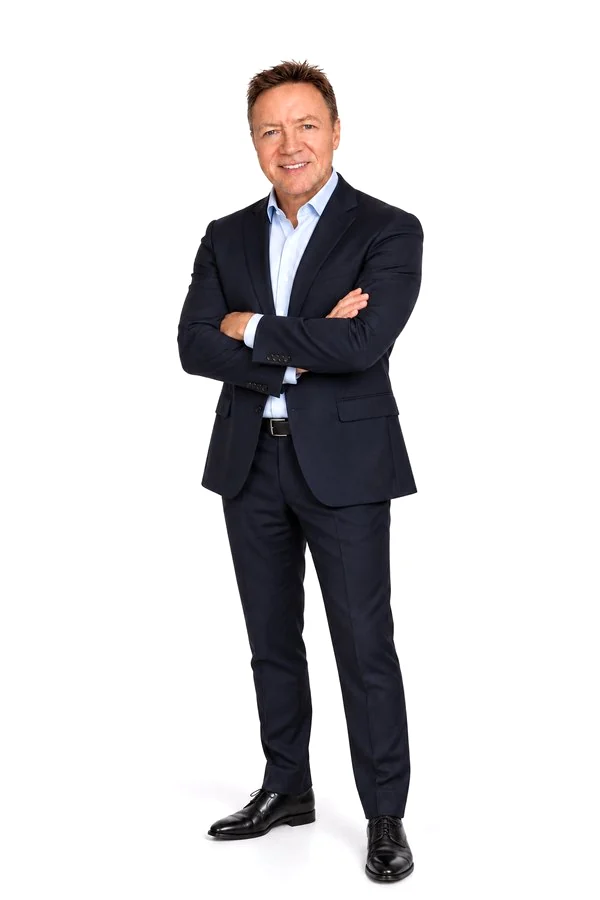
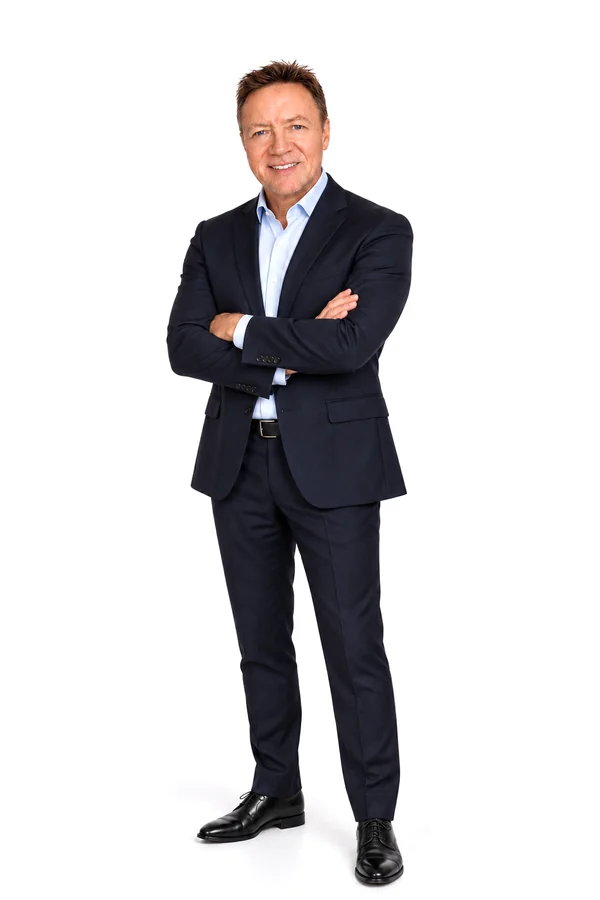
Add founder 360 turnaround and the 80-year family time-lapse
- Founder: 11 aligned views from the full-length photo; turns 360, pauses, repeats while in view, with pause button
- Generations section below Make a Gift: flash, photographer fades, then 1946 to 2026 in about ten seconds; labelled as an illustration of an imagined family
- Reduced motion shows the still images with a button to play

Claude-Session: https://claude.ai/code/session_0171Soq6E7MDrfQ61GJECVvm

Changed region(s): [[0.27, 0.0622, 0.69, 0.9956], [0.6, 0.2178, 0.72, 0.3733], [0.51, 0.28, 0.63, 0.3733]]

diff --git a/index.html b/index.html
@@ -1010,7 +1010,7 @@
 <!-- ============ FOUNDER (short) ============ -->
 <section id="founder">
   <div class="wrap founder-row has-full">
-    <div class="founder-full" id="founder-turn" data-count="0" data-src="/assets/img/founder/turn-{n}.webp">
+    <div class="founder-full" id="founder-turn" data-count="11" data-names="000,060,090,120,150,180,210,240,270,300,330" data-src="/assets/img/founder/turn-{n}.webp">
       <div class="seq-frames"><picture><source srcset="/assets/img/founder/grant-full.webp" type="image/webp"><img class="seq-still" src="/assets/img/founder/grant-full.jpg" alt="Grant de Graf, founder of The Legacy Project, standing full length in a navy suit" width="600" height="900" loading="lazy" decoding="async"></picture></div>
       <button type="button" class="seq-replay" hidden>Pause the turn</button>
     </div>
@@ -1079,6 +1079,21 @@
     <a class="btn btn-primary" style="font-size: 15px; padding: 13px 28px;" href="/donate/">Make a Gift</a>
     <p class="contact-note">Questions before giving? Email <a href="mailto:info@legacy.ngo?subject=Legacy%20Project%20Donation%20Inquiry">info@legacy.ngo</a><br>
       From a museum, school, book group, archive or foundation? <a href="/partners/">Join the Resistance Mission</a></p>
+  </div>
+</section>
+
+<!-- ============ GENERATIONS (illustration) ============ -->
+<section class="generations" id="generations" aria-labelledby="generations-h">
+  <div class="wrap">
+    <p class="eyebrow">What one life becomes</p>
+    <h2 id="generations-h">One portrait. Eighty years. Eighty people.</h2>
+    <p class="lead" style="max-width: 60ch;">Every life saved became a family. Remembering what was lost, and what survived, is a legacy that grows with each generation.</p>
+    <figure class="gen-figure" id="family-lapse" data-count="11" data-names="01,02,03,04,05,06,07,08,09,10,12" data-src="/assets/img/family/family-{n}.webp" data-years="1946,1946,1947,1952,1959,1966,1973,1981,1990,2000,2026">
+      <div class="seq-frames"><img class="seq-still" src="/assets/img/family/family-12.webp" alt="Illustration: an imagined family photograph of about eighty people of every age, from babies to great-grandparents, gathered on a lawn in front of a house" width="1200" height="800" loading="lazy" decoding="async"></div>
+      <span class="gen-flash" aria-hidden="true"></span>
+      <span class="gen-year" aria-hidden="true">1946</span>
+      <figcaption>Illustration of an imagined family, made with AI image tools. Not a real family or a historical photograph.<button type="button" class="seq-replay" hidden>Replay the eighty years</button></figcaption>
+    </figure>
   </div>
 </section>
 
@@ -1158,6 +1173,6 @@
 </script>
 <script src="/assets/js/home-visual.js?v=20261007b" defer></script>
 <script src="/assets/js/scroll3d.js?v=20261007c" defer></script>
-<script src="/assets/js/scenes.js?v=20261007b" defer></script>
+<script src="/assets/js/scenes.js?v=20261007c" defer></script>
 </body>
 </html>

diff --git a/assets/js/scenes.js b/assets/js/scenes.js
@@ -175,9 +175,9 @@
       var turnOnce = function (done) {
         fseq.load(function () {
           fseq.stop(); fBusy = true;
-          var step = 210, n = fUrls.length;
-          fseq.show(0, 0);
-          for (var k = 1; k <= n; k++) (function (k) { fseq.at(k * step, function () { fseq.show(k % n, 150); }); })(k);
+          var step = 190, n = fUrls.length;
+          fseq.show(0, 0, true);
+          for (var k = 1; k <= n; k++) (function (k) { fseq.at(k * step, function () { fseq.show(k % n, 70, true); }); })(k);
           fseq.at(n * step + 300, function () { fseq.end(); fBusy = false; done && done(); });
         });
       };
